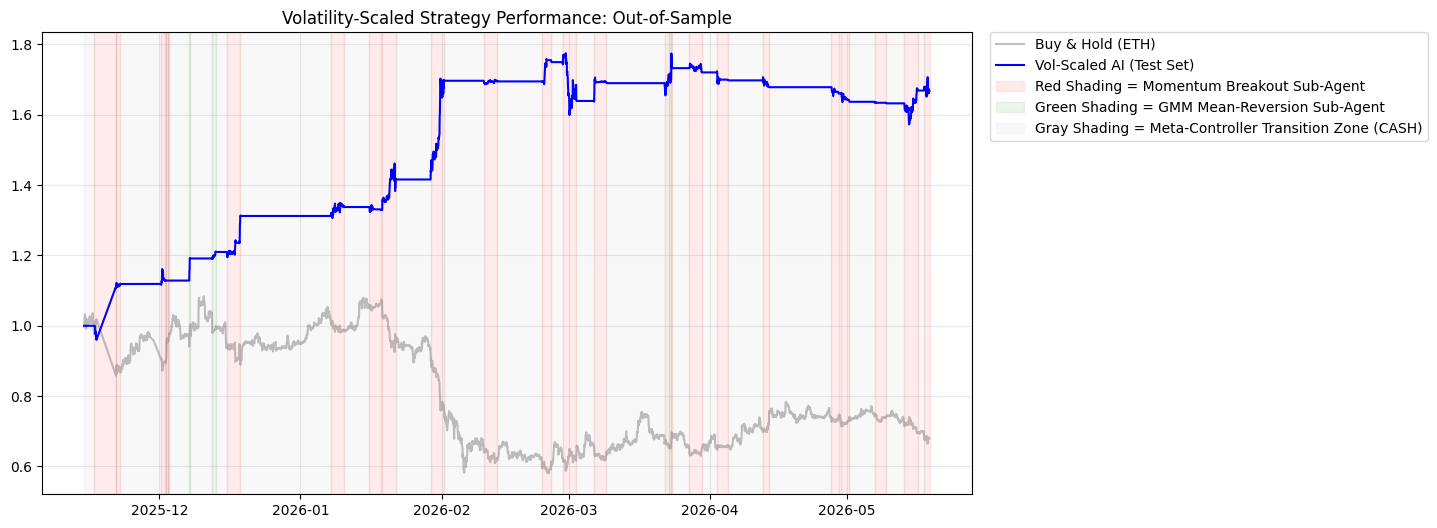
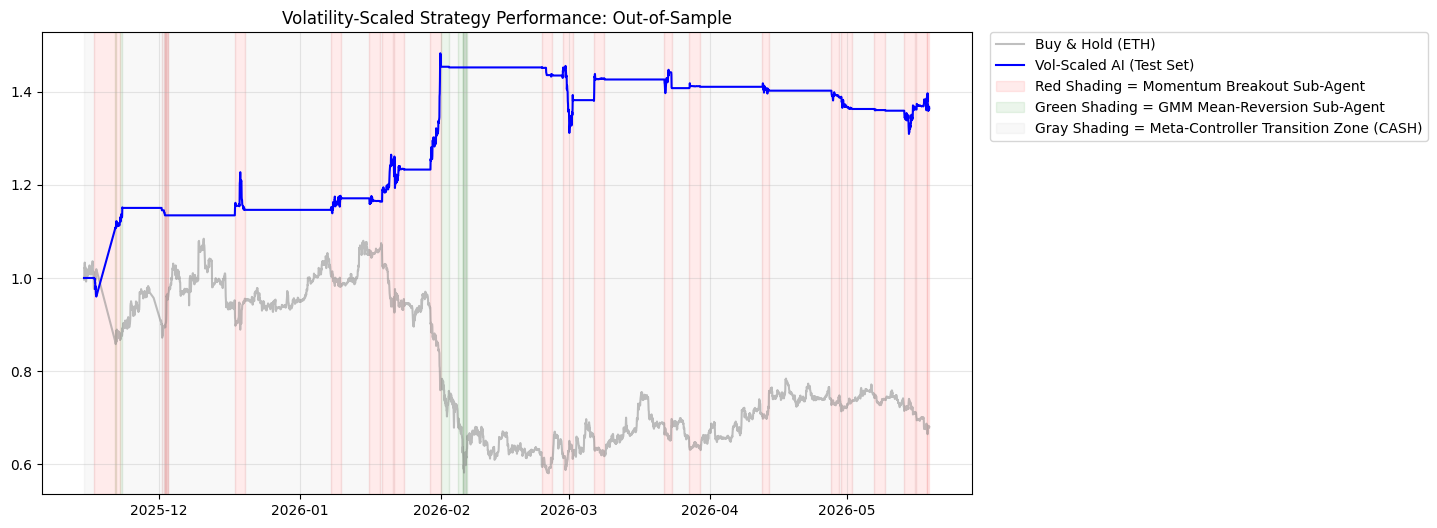
optimize decoupled channels and rolling production validation in tuner

diff --git a/research/optuna_tuner.py b/research/optuna_tuner.py
@@ -78,6 +78,7 @@ def suggest_neighborhood_int(trial, name, default_center, low_factor=0.8, high_f
         low = high - 1
     return trial.suggest_int(name, int(low), int(high))
 
+STUDY_NAME  = "eth_hmm_breakout_v4_fresh"
 STUDY_DB    = f"sqlite:///{os.path.join(PROJECT_ROOT, 'research', 'optuna_study.db')}"
 N_TRIALS    = 500
 
@@ -282,16 +283,19 @@ def simulate_sharpe(test_df: pd.DataFrame, params: dict) -> float:
     return float(sharpe)
 
 def objective(trial, test_df):
-    default_window = current_params.get('rolling_min_window', current_params.get('rolling_window', 48))
-    rolling_window = suggest_neighborhood_int(trial, 'rolling_window', default_window, low_factor=0.8, high_factor=1.2, min_val=12, max_val=120)
+    default_min = current_params.get('rolling_min_window', 52)
+    default_max = current_params.get('rolling_max_window', 52)
     
     params = {
         'hmm_chop_max': suggest_neighborhood_float(trial, 'hmm_chop_max', 0.40, low_factor=0.8, high_factor=1.2, min_val=0.10, max_val=0.50),
         'hmm_trend_min': suggest_neighborhood_float(trial, 'hmm_trend_min', 0.60, low_factor=0.8, high_factor=1.2, min_val=0.50, max_val=0.95),
         'gmm_z_buy': suggest_neighborhood_float(trial, 'gmm_z_buy', -3.65, low_factor=0.8, high_factor=1.2, min_val=-4.50, max_val=-1.00),
         'gmm_z_sell': suggest_neighborhood_float(trial, 'gmm_z_sell', 0.5, low_factor=0.8, high_factor=1.2, min_val=0.0, max_val=1.5),
-        'rolling_min_window': rolling_window,
-        'rolling_max_window': rolling_window,
+        
+        # Optimize support and resistance channels independently
+        'rolling_min_window': suggest_neighborhood_int(trial, 'rolling_min_window', default_min, low_factor=0.7, high_factor=1.3, min_val=12, max_val=150),
+        'rolling_max_window': suggest_neighborhood_int(trial, 'rolling_max_window', default_max, low_factor=0.7, high_factor=1.3, min_val=12, max_val=150),
+        
         'vol_shock_mult': suggest_neighborhood_float(trial, 'vol_shock_mult', 1.50, low_factor=0.8, high_factor=1.2, min_val=1.10, max_val=2.50),
         'rebalance_threshold': suggest_neighborhood_float(trial, 'rebalance_threshold', 0.48, low_factor=0.8, high_factor=1.2, min_val=0.10, max_val=0.85),
         'gmm_ema_mult': suggest_neighborhood_float(trial, 'gmm_ema_mult', 1.03, low_factor=0.8, high_factor=1.2, min_val=0.90, max_val=1.20),
@@ -304,8 +308,8 @@ def objective(trial, test_df):
 
 def write_best_params(study, current_params):
     best = study.best_trial.params
-    current_params['rolling_min_window'] = int(best['rolling_window'])
-    current_params['rolling_max_window'] = int(best['rolling_window'])
+    current_params['rolling_min_window'] = int(best['rolling_min_window'])
+    current_params['rolling_max_window'] = int(best['rolling_max_window'])
     current_params['hmm_chop_max']    = float(best['hmm_chop_max'])
     current_params['hmm_trend_min']   = float(best['hmm_trend_min'])
     current_params['gmm_z_buy']       = float(best['gmm_z_buy'])
@@ -371,24 +375,26 @@ def main():
     df['ema_200'] = df['close'].ewm(span=200, adjust=False).mean()
     df.dropna(subset=FEATURE_COLS, inplace=True)
 
-    # Split data to get the train set
-    train_raw, _ = split_data(df, verbose=True)
-    
-    # Feature engineering for train set
-    train_df = calculate_features_test(train_raw)
-    
-    # Pre-generate forecasts using rolling volatility of log returns (vol_24h)
+    # In main(): Replace the rigid train split with a rolling production lookback
+    # Ensure the data passed to the optimizer represents the immediate trailing 90 or 180 days
+    optimization_window_days = 180
+    cutoff_date = df.index.max() - pd.Timedelta(days=optimization_window_days)
+    production_train_df = df[df.index >= cutoff_date]
+
+    # Complete feature preparation on the designated window
+    train_df = calculate_features_test(production_train_df)
     train_df['forecasted_vol'] = train_df['rolling_vol_24h']
     train_df.dropna(subset=['forecasted_vol'], inplace=True)
 
     print(f"\n[Sandbox] Feature engineering & pre-computation complete.")
     print(f"[Sandbox] Beginning {N_TRIALS} fast Optuna trials...\n")
 
+    # Instantiating the clean study name
     study = optuna.create_study(
-        study_name="eth_hmm_breakout_opt",
+        study_name=STUDY_NAME,
         direction="maximize",
         storage=STUDY_DB,
-        load_if_exists=True,
+        load_if_exists=False, # Set to False or change STUDY_NAME to purge old trial memories
     )
 
     study.optimize(lambda trial: objective(trial, train_df), n_trials=N_TRIALS)